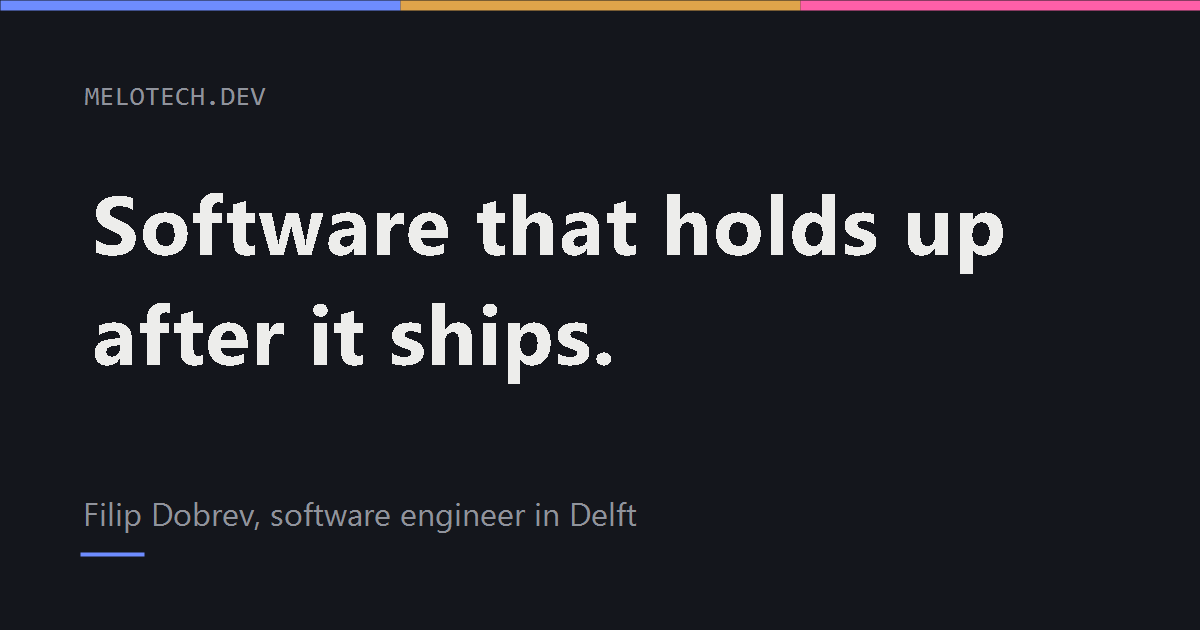
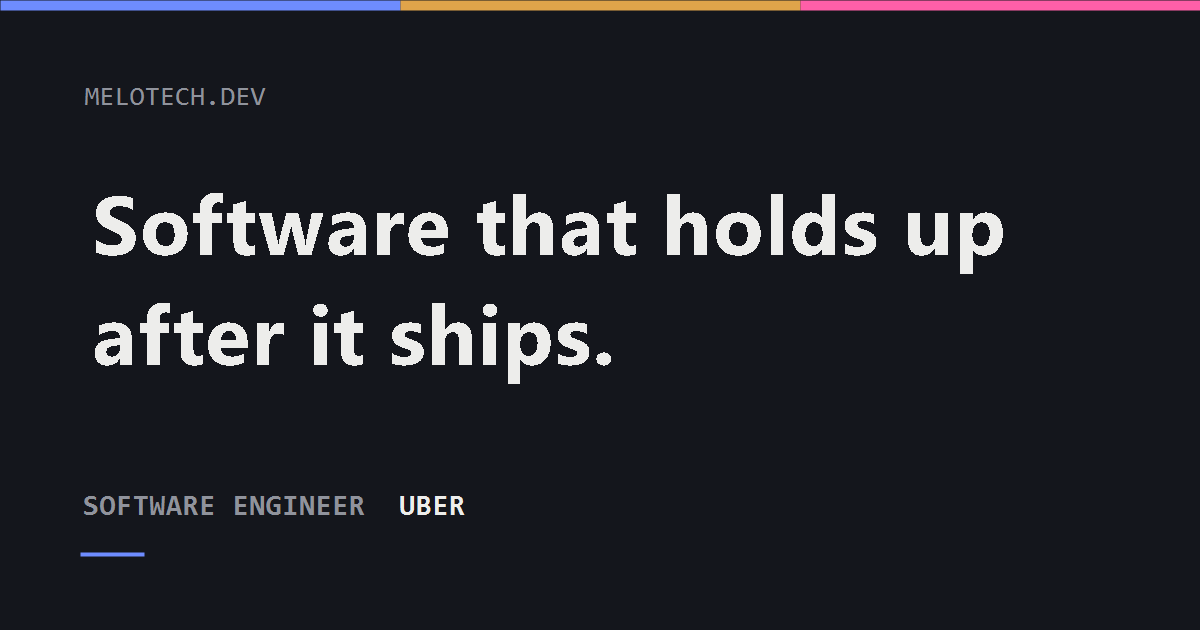
Put the role and employer on the OG image

Changed region(s): [[0.0617, 0.7841, 0.5242, 0.8444]]

diff --git a/public/index.html b/public/index.html
@@ -17,7 +17,7 @@
 <meta property="og:image" content="https://melotech.dev/og.png">
 <meta property="og:image:width" content="1200">
 <meta property="og:image:height" content="630">
-<meta property="og:image:alt" content="Melotech. Software that holds up after it ships.">
+<meta property="og:image:alt" content="Melotech. Software that holds up after it ships. Software engineer at Uber.">
 <meta name="twitter:card" content="summary_large_image">
 <meta name="twitter:title" content="Filip Dobrev, software engineer in Delft">
 <meta name="twitter:description" content="Software that holds up after it ships. Published prices, Delft, remote across Europe.">
